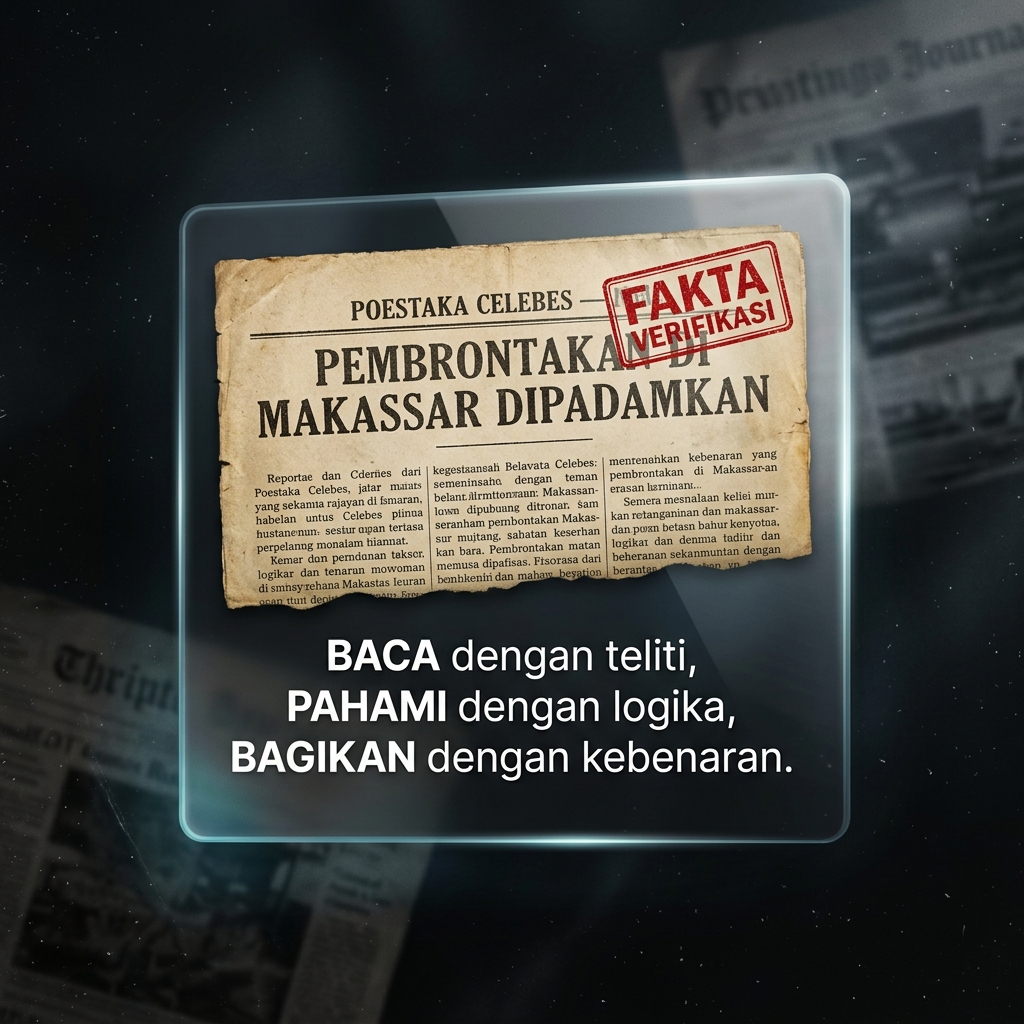
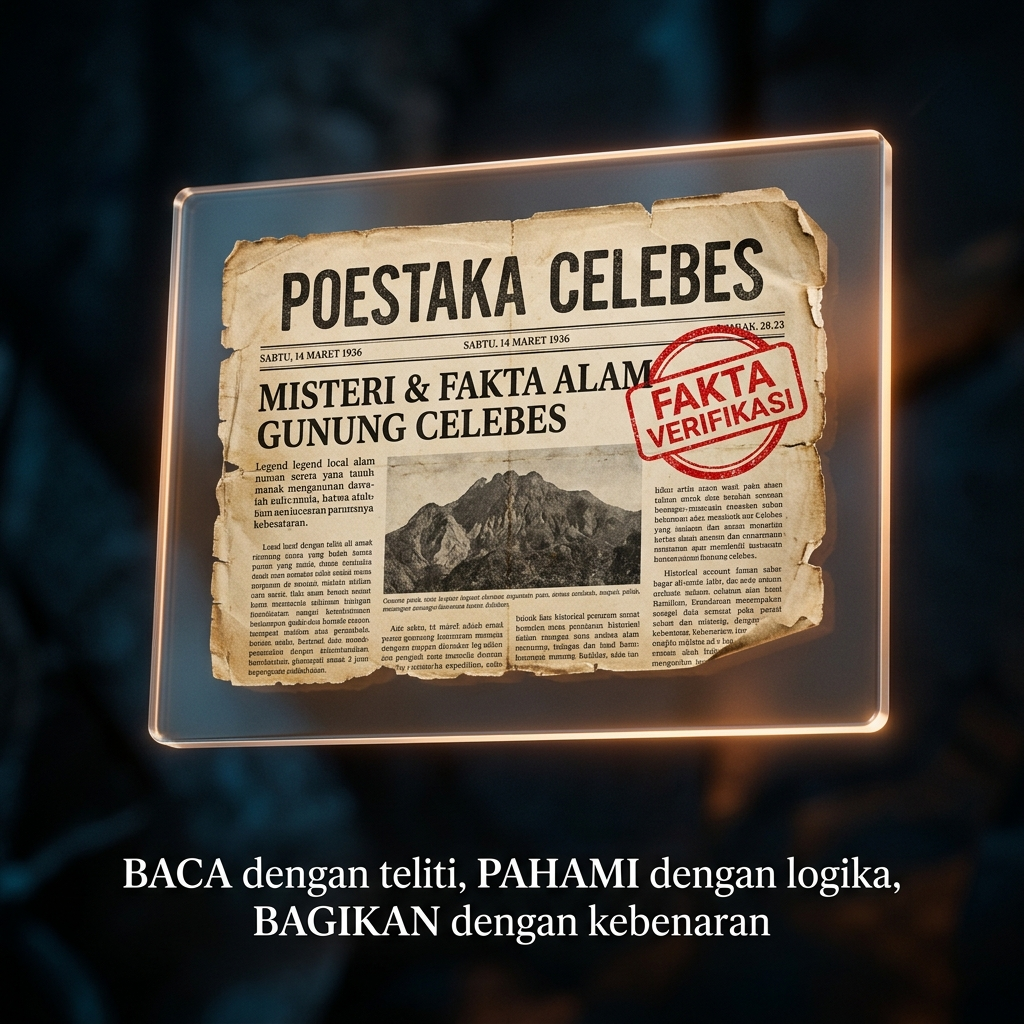
Add files via upload

diff --git a/ig_tiktok_card_studio.html b/ig_tiktok_card_studio.html
@@ -268,7 +268,7 @@
       position: relative;
     }
     .newspaper-snippet::after {
-      content: "REICHAS ARSIP 1994";
+      content: "POESTAKA CELEBES 1994";
       position: absolute;
       right: 12px;
       bottom: 6px;
@@ -403,7 +403,7 @@
       <div class="control-group">
         <label>Pilih Tema Kartu</label>
         <select id="selectTheme" onchange="updateCard()">
-          <option value="1">Slide 1: Hook Mitos vs Fakta Celebes</option>
+          <option value="1">Slide 1: Hook Misteri & Fakta Alam Celebes</option>
           <option value="2">Slide 2: Tahap BACA — Verifikasi Sumber</option>
           <option value="3">Slide 3: Tahap PAHAMI — Dekonstruksi Logika</option>
           <option value="4">Slide 4: Tahap BAGIKAN — Stop Hoaks</option>
@@ -438,7 +438,7 @@
       
       <!-- Live Card Preview -->
       <div id="cardWrapper" class="card-preview-wrapper ig-post">
-        <div id="cardPreview" class="card-preview" style="background-image: linear-gradient(to bottom, rgba(15,20,29,0.7), rgba(9,13,20,0.95)), url('reichas_ig_card_hero_1785909893432.png');">
+        <div id="cardPreview" class="card-preview" style="background-image: linear-gradient(to bottom, rgba(15,20,29,0.7), rgba(9,13,20,0.95)), url('reichas_ig_card_hero.png');">
           
           <div class="card-header-bar">
             <div class="card-brand-tag">
@@ -482,15 +482,15 @@
         <h3 style="font-size: 18px; font-weight: 800; margin-bottom: 16px;">Aset Hyper-Realistis Tergenerasi (HD Ready)</h3>
         <div class="gallery-grid">
           <div class="gallery-item">
-            <img src="reichas_ig_card_hero_1785909893432.png" alt="Hyper Realistic IG Card">
+            <img src="reichas_ig_card_hero.png" alt="Hyper Realistic IG Card">
             <div class="gallery-info">
               <h4>Aset 1: Hero Carousel IG</h4>
-              <p>Tekstur kliping koran klasik, kayu mahoni, kaca pembesar, dan pendar digital fakta.</p>
+              <p>Tekstur koran Poestaka Celebes, kayu mahoni, kaca pembesar, dan pendar digital fakta.</p>
             </div>
           </div>
 
           <div class="gallery-item">
-            <img src="tiktok_vertical_card_reichas_1785909906828.png" alt="TikTok Story Card">
+            <img src="tiktok_vertical_card_reichas.png" alt="TikTok Story Card">
             <div class="gallery-info">
               <h4>Aset 2: Vertical TikTok 9:16 Card</h4>
               <p>Visual 9:16 khusus Stories & TikTok Feed untuk daya tarik maksimal 3 detik pertama.</p>
@@ -498,10 +498,10 @@
           </div>
 
           <div class="gallery-item">
-            <img src="reichas_factcheck_card_1785909918425.png" alt="Fact Check Glassmorphism Card">
+            <img src="reichas_factcheck_card.png" alt="Fact Check Glassmorphism Card">
             <div class="gallery-info">
               <h4>Aset 3: Fact Check Stamp Card</h4>
-              <p>Stempel "FAKTA VERIFIKASI" transparan di atas kliping arsitektur jurnalisme klasik.</p>
+              <p>Stempel "FAKTA VERIFIKASI" transparan di atas kliping koran Poestaka Celebes.</p>
             </div>
           </div>
         </div>
@@ -517,35 +517,35 @@
         snippet: '"Laporan misteri di lereng Gunung Latimojong tahun 1994 kembali heboh. Tapi benarkah kejadian aslinya seperti itu?"',
         desc: "Jangan cuma geser feed. Kliping REICHAS membongkar fakta historis & verifikasi ilmiah di balik cerita mistis Sulawesi.",
         badge: "SLIDE 1: HOOK",
-        img: "reichas_ig_card_hero_1785909893432.png"
+        img: "reichas_ig_card_hero.png"
       },
       "2": {
         title: "1. BACA: TANYAKAN SUMBER ASLINYA",
         snippet: '"Banyak informasi beredar hanya potongan screenshot tanpa tanggal, tanpa penulis, dan tanpa pembanding."',
         desc: "Langkah pertama literasi REICHAS: telusuri dokumen koran lama, verifikasi arsip, dan pastikan data bukan karangan.",
         badge: "SLIDE 2: BACA",
-        img: "reichas_factcheck_card_1785909918425.png"
+        img: "reichas_factcheck_card.png"
       },
       "3": {
         title: "2. PAHAMI: DEKONSTRUKSI LOGIKA",
         snippet: '"Mengapa narasi ini mendadak viral? Siapa yang diuntungkan dari kepanikan dan hoaks masyarakat?"',
         desc: "Pahami konteks sosial dan bias informasi. Kebenaran tidak diukur dari seberapa ramai netizen berkomentar.",
         badge: "SLIDE 3: PAHAMI",
-        img: "reichas_ig_card_hero_1785909893432.png"
+        img: "reichas_ig_card_hero.png"
       },
       "4": {
         title: "3. BAGIKAN: JADI BENTENG LITERASI",
         snippet: '"Menyebarkan kebenaran adalah bentuk kepedulian digital. Hentikan rantai hoaks di jemari Anda."',
         desc: "Sebelum menekan tombol share, pastikan tulisan sudah dibaca utuh dan dipahami faktanya.",
         badge: "SLIDE 4: BAGIKAN",
-        img: "tiktok_vertical_card_reichas_1785909906828.png"
+        img: "tiktok_vertical_card_reichas.png"
       },
       "5": {
         title: "MELEK FAKTA BERSAMA REICHAS CELEBES",
         snippet: '"Membaca Hari Ini, Melek Fakta Selamanya. Galeri kliping literasi & cek fakta Sulawesi."',
         desc: "Kunjungi kliping-reichas.my.id untuk membaca ratusan analisis kliping & verifikasi fakta lengkap.",
         badge: "SLIDE 5: REICHAS CORE",
-        img: "reichas_factcheck_card_1785909918425.png"
+        img: "reichas_factcheck_card.png"
       }
     };
 
